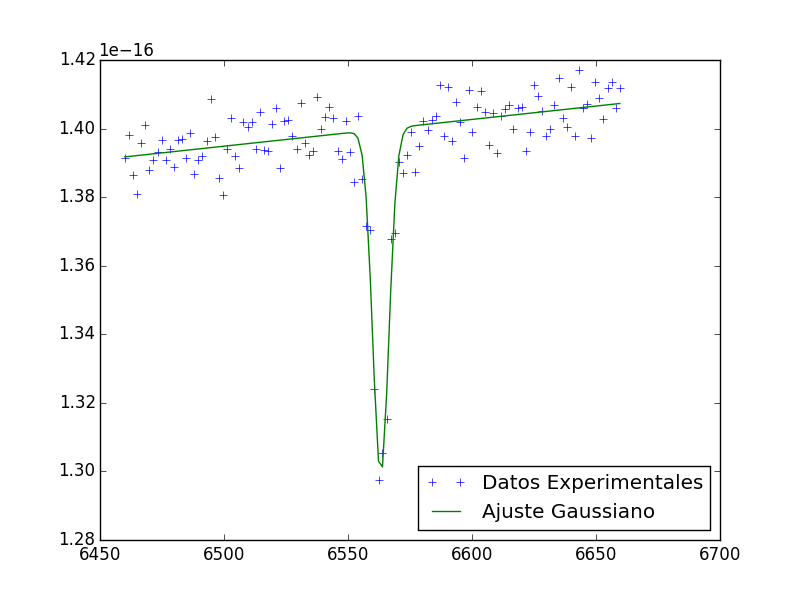
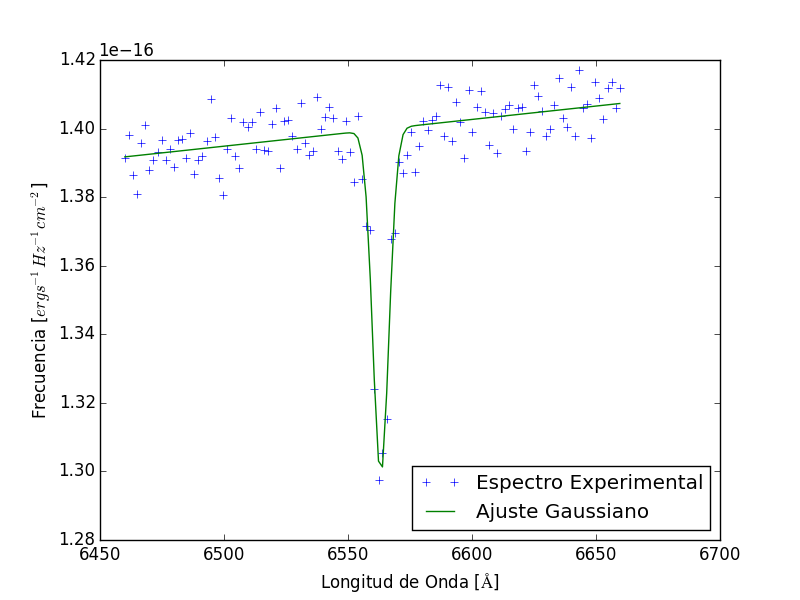
graficos para las parte 2
graficos de la dnsidad de prob acumulada

diff --git a/parte2.py b/parte2.py
@@ -57,8 +57,8 @@ def residuo_lorentz(p, x_exp, y_exp):
     return err
 
 
-def cdf(data, modelo):
-    return np.array([np.sum(modelo <= yy) for yy in data]) / len(modelo)
+def cdf(datos, modelo):
+    return np.array([np.sum(modelo <= yy) for yy in datos]) / len(modelo)
 
 
 def prueba_ks(x_exp, y_exp, modelo, p_opt):
@@ -70,12 +70,32 @@ def prueba_ks(x_exp, y_exp, modelo, p_opt):
     return Dn, prob
 
 
+def graficos_ks(x_exp, y_exp, modelo, p_opt, titulo):
+    xmin = np.min(x_exp)
+    xmax = np.max(x_exp)
+    y_modelo_ord = np.sort(modelo(p_opt, np.linspace(xmin, xmax, 1000)))
+    y_exp_ord = np.sort(y_exp)
+    CDF = cdf(y_exp_ord, y_modelo_ord)
+    N = len(y_exp_ord)
+    ax, fig = plt.subplots()
+    plt.plot(y_exp_ord, np.arange(N) / N, '-^', drawstyle='steps-post', label="Datos")
+    plt.plot(y_exp_ord, np.arange(1, N+1) / N, '-.', drawstyle='steps-post')
+    plt.plot(y_exp_ord, CDF, '-+', drawstyle='steps-post', label="Modelo")
+    fig.set_xlabel( "Longitud de Onda [$\AA$]")
+    fig.set_ylabel("Probabilidad")
+    plt.legend(loc=2)
+    plt.savefig("{}".format(titulo))
+    plt.show()
+
+
 # main
-p0 = 1e-16 , 0, 1e-16, 6550, 1
+p0 = 1e-16, 0, 1e-16, 6550, 1
 x_exp, y_exp = experimental()
 aprox_1 = leastsq(residuo_gauss, p0, args=(x_exp, y_exp))
 aprox_2 = leastsq(residuo_lorentz, p0, args=(x_exp, y_exp))
 opt1 = aprox_1[0]
 opt2 = aprox_2[0]
+graficos_ks(x_exp, y_exp, modelo_gauss, opt1, "prob_gauss")
+graficos_ks(x_exp, y_exp, modelo_lorentz, opt2, "prob_lorentz")
 print prueba_ks(x_exp, y_exp, modelo_gauss, opt1)
 print prueba_ks(x_exp, y_exp, modelo_lorentz, opt2)

diff --git a/parte1.py b/parte1.py
@@ -45,20 +45,20 @@ def plot(x, y, y1, y2):
     fig = plt.figure()
     fig.clf()
     ax1 = fig.add_subplot(111)
-    ax1.plot(x, y, '+', label="Datos Experimentales")
+    ax1.plot(x, y, '+', label="Espectro Experimental")
     ax1.plot(x, y1, '-', label="Ajuste Gaussiano")
     ax1.plot()
-    ax1.set_xlabel("")
-    ax1.set_ylabel("")
+    ax1.set_xlabel("Longitud de Onda [$\AA$]")
+    ax1.set_ylabel("Frecuencia [$erg s^{-1} Hz^{-1} cm^{-2}$]")
     plt.legend(loc=4)
     plt.savefig("gauss.png")
     fig.clf()
     ax2 = fig.add_subplot(111)
-    ax2.plot(x, y, '+', label="Datos Experimentales")
+    ax2.plot(x, y, '+', label="Espectro Experimental")
     ax2.plot(x, y2, '-', label="Ajuste Lorentz")
     ax2.plot()
-    ax2.set_xlabel("")
-    ax2.set_ylabel("")
+    ax2.set_xlabel("Longitud de Onda [$\AA$]")
+    ax2.set_ylabel("Frecuencia [$erg s^{-1} Hz^{-1} cm^{-2}$]")
     plt.legend(loc=4)
     plt.savefig("lorentz.png")
     plt.draw()
@@ -83,7 +83,6 @@ def modelo_lorentz(p, x):
     return y1 - y2
 
 
-
 def experimental():
     ex = leer_archivo("espectro.dat")
     x_ex = ex[:, 0]
@@ -105,9 +104,8 @@ def chi_cuadrado(p, x, y, f):
     S = np.sum((y - f(p, x)) ** 2)
     return S
 
-
 # inicializacion
-p1 = 1e-16 , 0
+p1 = 1e-16, 0
 p2 = 1e-16, 6550, 1
 p0 = p1[0], p1[1], p2[0], p2[1], p2[2]
 x_exp, y_exp = experimental()
